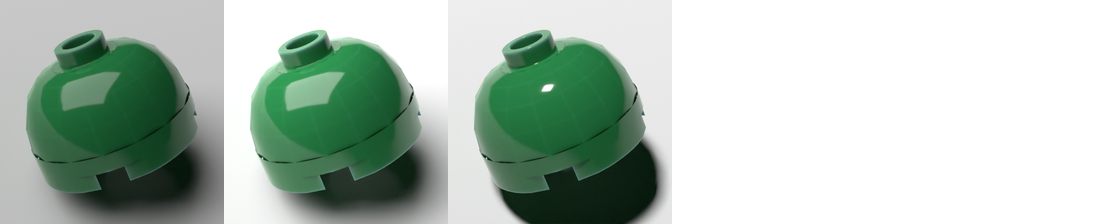
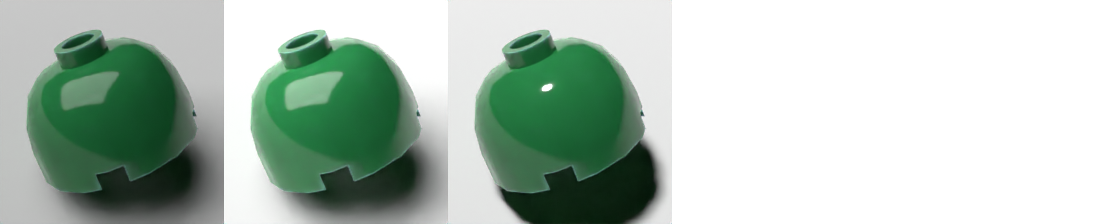
Temp fix for unexpected seams

diff --git a/docs-parts.py b/docs-parts.py
@@ -26,6 +26,7 @@ variants = [
         part_color = RebrickableColors.Yellow.value.best_hex,
         part_rotation = (0, 0, -45),
         camera_height = 15,
+        quality = Quality.DRAFT, # an incorrect seam is rendered at higher quality, not sure why
     )),
     ("11212", RenderOptions(
         part_color = RebrickableColors.Green.value.best_hex,
@@ -93,7 +94,7 @@ variants = [
 for i, variant in enumerate(variants):
     options = variant[1]
     options.image_filename = f"renders/docs{i}.png"
-    options.quality = Quality.HIGH
+    options.quality = options.quality or Quality.HIGH
     options.zoom = 0.6
     renderer.render_part(variant[0], options)
 

diff --git a/docs-lighting-style.py b/docs-lighting-style.py
@@ -24,7 +24,7 @@ lighting_styles = [
 for i, lighting_style in enumerate(lighting_styles):
     options = RenderOptions(
         image_filename = f"renders/docs{i}.png",
-        quality=Quality.HIGH,
+        quality=Quality.DRAFT, # an incorrect seam is rendered at higher quality, not sure why
         lighting_style = lighting_style,
         part_color=RebrickableColors.Green.value.best_hex,
         zoom=0.6,
